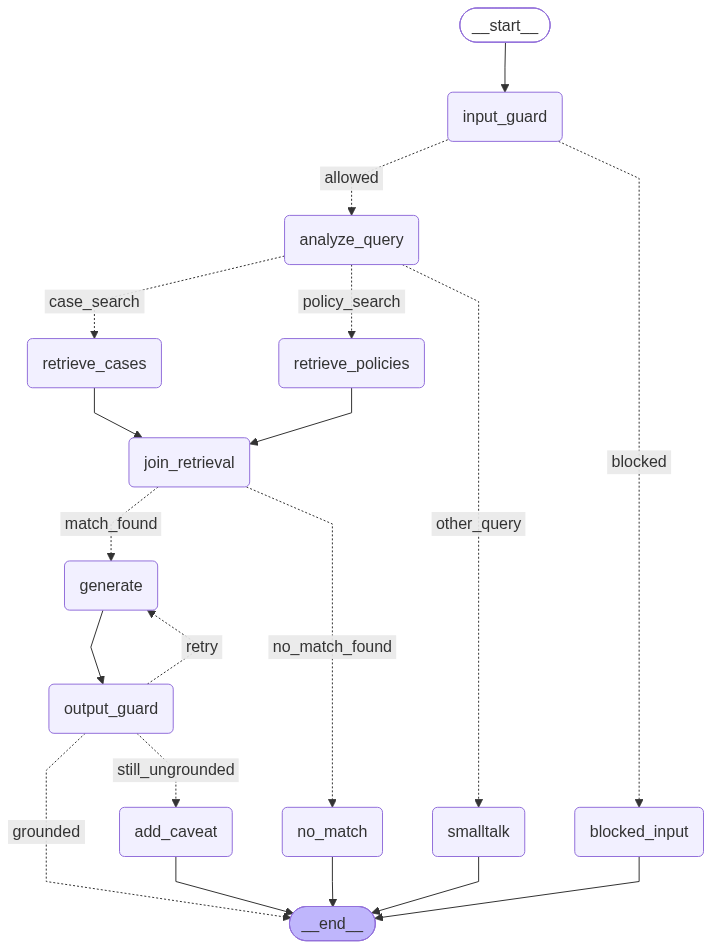
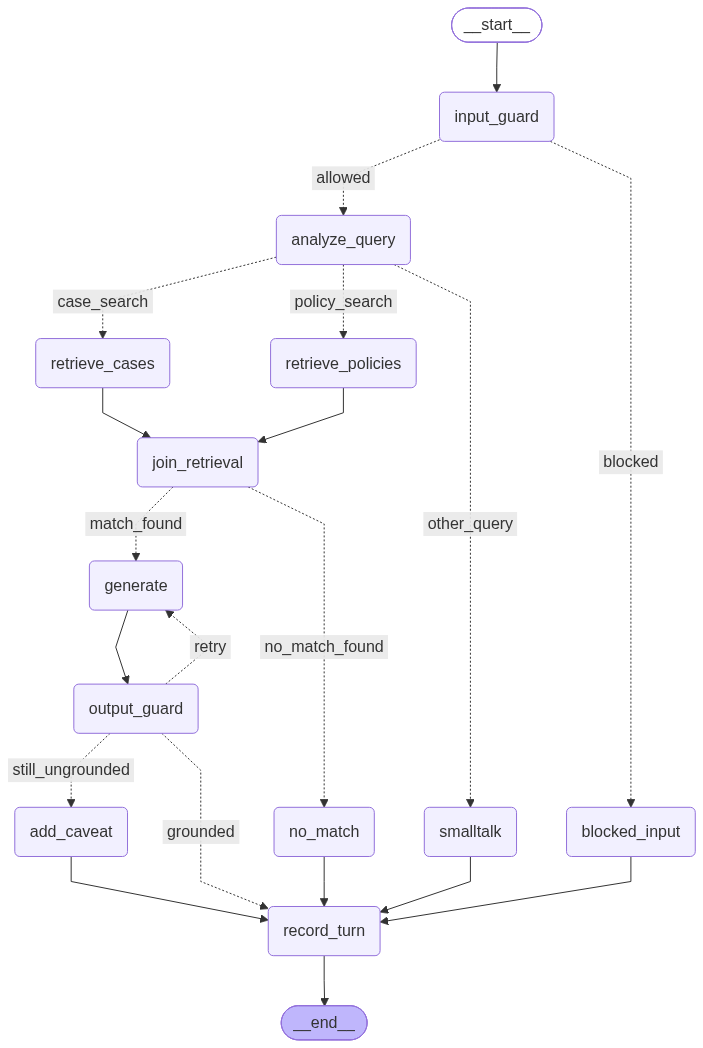
Graph: Include new node for storing messages to checkpointer

diff --git a/backend/src/cms/rag/graph.py b/backend/src/cms/rag/graph.py
@@ -1,28 +1,34 @@
 """Graph assembly: guard the input, analyze the query, fork on intent, then guard the draft.
 
-    START -> input_guard -+-> blocked_input -> END
+    START -> input_guard -+-> blocked_input -> record_turn -> END
                           +-> analyze_query -+-> retrieve_policies -+
                                              |                      +-> join_retrieval -+
                                              +-> retrieve_cases ----+                   |
-                                             +-> smalltalk -> END                       |
+                                             +-> smalltalk -> record_turn -> END        |
                                                                                         |
-        +-- no_match -> END  <----------------------------------------------------------+
-        +-- generate -> output_guard -+-> END                  (grounded)
+        +-- no_match -> record_turn -> END  <-------------------------------------------+
+        +-- generate -> output_guard -+-> record_turn -> END   (grounded)
                ^                      +-> generate             (ungrounded, first time)
                |______________________|
-                                      +-> add_caveat -> END    (ungrounded after the retry)
+                                      +-> add_caveat -> record_turn -> END  (still ungrounded)
 
 A complaint runs retrieve_policies and retrieve_cases in parallel; join_retrieval
 waits for both, so generate gets policy and case hits.
+
+Every path ends at record_turn, which writes the turn into `chat_history` for the
+checkpointer. Exactly one of the four terminals runs per turn, so each gets its
+own edge — a list edge would build an AND-join and wait forever.
 """
 
 import logging
 from functools import lru_cache
 from pathlib import Path
 
+from langgraph.checkpoint.base import BaseCheckpointSaver
 from langgraph.graph import END, START, StateGraph
 from langgraph.graph.state import CompiledStateGraph
 
+from cms.db.mongo import get_checkpointer
 from cms.rag.nodes.add_caveat import add_caveat
 from cms.rag.nodes.analyze_query import analyze_query
 from cms.rag.nodes.blocked_input import blocked_input
@@ -31,6 +37,7 @@ from cms.rag.nodes.input_guard import input_guard
 from cms.rag.nodes.join_retrieval import join_retrieval
 from cms.rag.nodes.no_match import no_match
 from cms.rag.nodes.output_guard import output_guard
+from cms.rag.nodes.record_turn import record_turn
 from cms.rag.nodes.retrieve_cases import retrieve_cases
 from cms.rag.nodes.retrieve_policies import retrieve_policies
 from cms.rag.nodes.smalltalk import smalltalk
@@ -50,6 +57,7 @@ NO_MATCH = "no_match"
 GENERATE = "generate"
 OUTPUT_GUARD = "output_guard"
 ADD_CAVEAT = "add_caveat"
+RECORD_TURN = "record_turn"
 
 COMPLAINT_QUERY = "complaint_query"
 OTHER_QUERY = "other_query"
@@ -85,8 +93,12 @@ def route_after_output_guard(state: GraphState) -> str:
     return "still_ungrounded"
 
 
-def build_graph() -> CompiledStateGraph:
-    """Wire the nodes and conditional branches using explicit path mappings."""
+def build_graph(checkpointer: BaseCheckpointSaver | None = None) -> CompiledStateGraph:
+    """Wire the nodes and conditional branches using explicit path mappings.
+
+    `checkpointer` defaults to None so a caller that only wants the shape — the
+    CLI renderer, the flow tests — gets a graph that touches no database.
+    """
     builder = StateGraph(GraphState)
 
     # Register nodes
@@ -101,6 +113,7 @@ def build_graph() -> CompiledStateGraph:
     builder.add_node(GENERATE, generate)
     builder.add_node(OUTPUT_GUARD, output_guard)
     builder.add_node(ADD_CAVEAT, add_caveat)
+    builder.add_node(RECORD_TURN, record_turn)
 
     # Linear and conditional edges
     builder.add_edge(START, INPUT_GUARD)
@@ -143,31 +156,35 @@ def build_graph() -> CompiledStateGraph:
         OUTPUT_GUARD,
         route_after_output_guard,
         {
-            "grounded": END,
+            "grounded": RECORD_TURN,
             "retry": GENERATE,
             "still_ungrounded": ADD_CAVEAT,
         },
     )
 
-    builder.add_edge(ADD_CAVEAT, END)
-    builder.add_edge(BLOCKED_INPUT, END)
-    builder.add_edge(NO_MATCH, END)
-    builder.add_edge(SMALLTALK, END)
-    
-    return builder.compile()
+    # One edge each, never `add_edge([...], RECORD_TURN)`: a list start is an
+    # AND-join, and only one of these four ever runs.
+    builder.add_edge(ADD_CAVEAT, RECORD_TURN)
+    builder.add_edge(BLOCKED_INPUT, RECORD_TURN)
+    builder.add_edge(NO_MATCH, RECORD_TURN)
+    builder.add_edge(SMALLTALK, RECORD_TURN)
+    builder.add_edge(RECORD_TURN, END)
+
+    return builder.compile(checkpointer=checkpointer)
 
 
 @lru_cache
 def get_graph() -> CompiledStateGraph:
-    """The process-wide compiled graph."""
-    return build_graph()
+    """The process-wide compiled graph, checkpointing to Mongo unless disabled."""
+    return build_graph(get_checkpointer())
 
 
 def render_graph() -> None:
     """Print the graph as Mermaid and save it as a PNG next to this module."""
     target = Path(__file__).with_suffix(".png")
     try:
-        graph = get_graph().get_graph()
+        # `build_graph`, not `get_graph`: drawing the shape needs no database.
+        graph = build_graph().get_graph()
         graph.draw_mermaid_png(output_file_path=str(target))
         logger.info("Graph png saved to %s", target)
     except Exception:

diff --git a/backend/src/cms/api/v1/routes/chat.py b/backend/src/cms/api/v1/routes/chat.py
@@ -1,4 +1,4 @@
-"""The chat endpoint: one complaint question in, one streamed answer out.
+"""The chat endpoint: one complaint question in, one streamed answer out, plus replay.
 
 Server-sent events rather than a plain JSON response because the graph takes
 seconds to answer — guards, two retrievals and a generation — and a support
@@ -6,32 +6,56 @@ agent watching an answer appear is waiting far better than one watching a
 spinner. `EventSourceResponse` also pings on its own, which keeps the
 connection alive across the silent stretch before the first token.
 
-Nothing is persisted: `session_id` is minted and echoed so the UI can group a
-conversation, but there is no `chat_sessions` or `messages` write behind it.
-That waits on auth — both tables are RLS'd to `auth.uid()`, and this API holds
-the service-role key, which bypasses RLS entirely. See the warning in
+Turns are stored in Mongo by the graph's checkpointer, keyed by `session_id`,
+not in Supabase: `chat_sessions` and `messages` are RLS'd to `auth.uid()` and
+this API holds the service-role key, which bypasses RLS. See the warning in
 `tickets.py`; it applies here too.
 """
 
 import logging
 
-from fastapi import APIRouter
+from fastapi import APIRouter, Depends, Path
 from sse_starlette.sse import EventSourceResponse
 
-from cms.schemas.chat import ChatRequest
-from cms.services.chat_service import stream_turn
+from cms.api.deps import get_user_id
+from cms.db.mongo import get_checkpointer
+from cms.schemas.chat import ChatMessageOut, ChatRequest
+from cms.services.chat_service import session_messages, stream_turn
 
 logger = logging.getLogger(__name__)
 
 router = APIRouter(prefix="/chat", tags=["chat"])
 
-
 @router.post("")
-async def chat(payload: ChatRequest) -> EventSourceResponse:
+async def chat(
+    payload: ChatRequest,
+    user_id: str = Depends(get_user_id),
+) -> EventSourceResponse:
     """Answer one turn as an SSE stream of `token`, `citations` and `done`.
 
     Always 200: once the stream is open, a failure is an `error` event rather
     than a status code, so the handler itself has nothing to catch.
     """
     logger.info("chat: %d char(s) in for session %s", len(payload.message), payload.session_id)
-    return EventSourceResponse(stream_turn(payload.message.strip(), payload.session_id))
+    return EventSourceResponse(
+        stream_turn(payload.message.strip(), payload.session_id, user_id)
+    )
+
+@router.get("/sessions/{session_id}/messages")
+async def session_transcript(
+    session_id: str = Path(max_length=64),
+    user_id: str = Depends(get_user_id),
+) -> list[ChatMessageOut]:
+    """Replay a stored conversation, so a reload restores it.
+
+    Unauthenticated, like the rest of this API: a session is reachable by anyone
+    holding its id, which is an unguessable uuid4. That changes when auth lands
+    and `get_user_id` returns a real subject.
+
+    An unknown session is an empty list, not a 404 — the client cannot tell the
+    difference between never-existed and expired, and neither can we.
+    """
+    if get_checkpointer() is None:
+        logger.warning("chat: transcript requested for %s but chat memory is off", session_id)
+        return []
+    return await session_messages(session_id, user_id)
